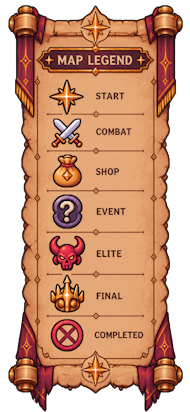
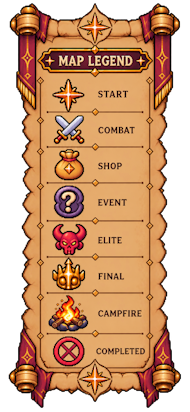
Fixed scaling of map UI breaking after resizing window and updated legend images to include new campfire node

diff --git a/source/core/src/main/com/csse3200/game/maps/MapDisplay.java b/source/core/src/main/com/csse3200/game/maps/MapDisplay.java
@@ -1,6 +1,5 @@
 package com.csse3200.game.maps;
 
-import com.badlogic.gdx.Gdx;
 import com.badlogic.gdx.graphics.Color;
 import com.badlogic.gdx.graphics.Texture;
 import com.badlogic.gdx.graphics.g2d.SpriteBatch;
@@ -38,9 +37,15 @@ public class MapDisplay extends UIComponent {
 
   private Group group;
   private ScrollPane scrollPane;
-  private final float mapHeight;
-  private final float mapWidth = Gdx.graphics.getWidth();
-  private final float nodeWidth = mapWidth / 13f; // default size
+  private static final float UI_WIDTH = 1280f;
+  private static final float UI_HEIGHT = 800f;
+
+  private float mapHeight;
+  private float mapWidth = UI_WIDTH;
+  private float nodeWidth;
+
+  private Table playerTable;
+  private Table legendTable;
   // to store positions
   private final Map<Integer, Vector2> nodePositions = new HashMap<>();
   // Node-id labels, shown only while debug rendering is active — same toggle 'debug on'
@@ -61,7 +66,14 @@ public class MapDisplay extends UIComponent {
     this.runState = runState;
     this.mapSelectionController = new MapSelectionController(mapGraph);
     this.mapInputHandler = new MapInputHandler(mapSelectionController);
-    this.mapHeight = (MapGenerationConfig.MAP_HEIGHT + 1) * 2f * nodeWidth;
+
+    updateDimensions();
+  }
+
+  /** Calculates the dimensions */
+  private void updateDimensions() {
+    nodeWidth = mapWidth / 13f;
+    mapHeight = (MapGenerationConfig.MAP_HEIGHT + 1) * 2f * nodeWidth;
   }
 
   /**
@@ -207,10 +219,10 @@ public class MapDisplay extends UIComponent {
    * <p>Piety is the height of the current node
    */
   private void addPlayerStats() {
-    Table playerTable = new Table();
+    playerTable = new Table();
 
-    playerTable.setSize(mapWidth, 100);
-    playerTable.setPosition(0, Gdx.graphics.getHeight() - 100);
+    playerTable.setSize(UI_WIDTH, 100);
+    playerTable.setPosition(0, UI_HEIGHT - 100);
     playerTable.setBackground(skin.newDrawable("color", new Color(0.105f, 0.070f, 0.065f, 0.98f)));
     playerTable.setDebug(false); // for testing
     playerTable.left();
@@ -300,25 +312,47 @@ public class MapDisplay extends UIComponent {
    * represents
    */
   private void addLegend() {
-    Table playerTable = new Table();
+    legendTable = new Table();
 
-    playerTable.setSize(192, (32 + 16) * 7);
+    legendTable.setSize(192, (32 + 16) * 7);
     Image legend =
         new Image(
             ServiceLocator.getResourceService().getAsset("images/map/legend.png", Texture.class));
-    playerTable.add(legend);
-    playerTable.setPosition(
-        Gdx.graphics.getWidth() - 224,
-        Gdx.graphics.getHeight() / 2f - playerTable.getHeight() / 2f);
+    legendTable.add(legend);
+    legendTable.setPosition(UI_WIDTH - 224, UI_HEIGHT / 2f - legendTable.getHeight() / 2f);
 
-    stage.addActor(playerTable);
+    stage.addActor(legendTable);
   }
 
-  /**
-   * Returns the group to access UI elements
-   *
-   * @return group of Nodes, connections and background
-   */
+  /** Resizes the player stats and legend with window size */
+  public void resizeHud() {
+    float width = stage.getWidth();
+    float height = stage.getHeight();
+    float extraWidth = width - UI_WIDTH;
+    if (playerTable != null) {
+      float sideExtension = extraWidth / 2f;
+
+      playerTable.setSize(width + extraWidth, 100f);
+      playerTable.setPosition(-sideExtension, height - 100f);
+
+      // Keep stats 15 units inside the original 1280 area
+      playerTable.padLeft(sideExtension + 15f);
+
+      playerTable.invalidateHierarchy();
+      playerTable.layout();
+    }
+
+    if (legendTable != null) {
+      float scale = height / UI_HEIGHT;
+
+      legendTable.setScale(scale);
+
+      legendTable.setPosition(
+          width - legendTable.getWidth() * scale - 32f,
+          height / 2f - legendTable.getHeight() * scale / 2f);
+    }
+  }
+
   /**
    * Gets the selection controller driving this display, so a screen can listen for node selection
    * and start the matching encounter.
@@ -329,6 +363,11 @@ public class MapDisplay extends UIComponent {
     return mapSelectionController;
   }
 
+  /**
+   * Returns the group to access UI elements
+   *
+   * @return group of Nodes, connections and background
+   */
   public Group getGroup() {
     return group;
   }

diff --git a/source/core/src/main/com/csse3200/game/screens/MapScreen.java b/source/core/src/main/com/csse3200/game/screens/MapScreen.java
@@ -46,6 +46,8 @@ public class MapScreen extends com.badlogic.gdx.ScreenAdapter {
 
   private final GdxGame game;
   private final Renderer renderer;
+  private ImageButton exitButton;
+  private MapDisplay mapDisplay;
 
   public MapScreen(GdxGame game) {
     this.game = game;
@@ -92,7 +94,7 @@ public class MapScreen extends com.badlogic.gdx.ScreenAdapter {
 
   /** Puts the map display on a UI entity so it is rendered and receives input. */
   private void createUi(GdxGame game, RunState runState) {
-    MapDisplay mapDisplay = new MapDisplay(runState.getMapGraph(), runState);
+    mapDisplay = new MapDisplay(runState.getMapGraph(), runState);
 
     mapDisplay
         .getMapSelectionController()
@@ -161,16 +163,10 @@ public class MapScreen extends com.badlogic.gdx.ScreenAdapter {
     style.imageUp = buttonDrawable;
     style.imageOver = buttonDrawableHover;
 
-    ImageButton exitButton = new ImageButton(style);
+    exitButton = new ImageButton(style);
 
-    float buttonWidth = 150f;
-    float buttonHeight = 50f;
-    float offset = 52f;
-
-    exitButton.setSize(buttonWidth, buttonHeight);
-
-    exitButton.setPosition(
-        stage.getWidth() - buttonWidth - offset, stage.getHeight() - offset * 1.5f);
+    exitButton.setSize(150f, 50f);
+    positionExitButton();
 
     exitButton.addListener(
         new ChangeListener() {
@@ -181,6 +177,16 @@ public class MapScreen extends com.badlogic.gdx.ScreenAdapter {
         });
 
     stage.addActor(exitButton);
+  }
+
+  private void positionExitButton() {
+    Stage stage = ServiceLocator.getRenderService().getStage();
+
+    float offset = 52f;
+
+    exitButton.setPosition(
+        stage.getWidth() - exitButton.getWidth() - offset,
+        stage.getHeight() - exitButton.getHeight() - offset / 2f);
   }
 
   @Override
@@ -198,6 +204,12 @@ public class MapScreen extends com.badlogic.gdx.ScreenAdapter {
   @Override
   public void resize(int width, int height) {
     renderer.resize(width, height);
+
+    if (mapDisplay != null) {
+      mapDisplay.resizeHud();
+    }
+
+    positionExitButton();
   }
 
   @Override

diff --git a/source/core/src/main/com/csse3200/game/maps/MapNodeActor.java b/source/core/src/main/com/csse3200/game/maps/MapNodeActor.java
@@ -1,6 +1,5 @@
 package com.csse3200.game.maps;
 
-import com.badlogic.gdx.Gdx;
 import com.badlogic.gdx.graphics.Texture;
 import com.badlogic.gdx.scenes.scene2d.Group;
 import com.badlogic.gdx.scenes.scene2d.ui.Image;
@@ -28,8 +27,8 @@ public class MapNodeActor extends Group {
    */
   public MapNodeActor(MapNode node) {
     this.node = node;
-    float mapWidth = Gdx.graphics.getWidth();
-    this.size = (mapWidth - 512) / 13f;
+    float mapWidth = ServiceLocator.getRenderService().getStage().getWidth();
+    this.size = (mapWidth - 512f) / 13f;
     nodeIcon =
         new Image(ServiceLocator.getResourceService().getAsset(getNodeIcon(), Texture.class));
 
@@ -70,8 +69,8 @@ public class MapNodeActor extends Group {
    */
   public MapNodeActor(MapNode node, boolean test) {
     this.node = node;
-    float mapWidth = Gdx.graphics.getWidth();
-    this.size = mapWidth / 13f;
+    float mapWidth = 1280f;
+    this.size = (mapWidth - 512f) / 13f;
     nodeIcon = new Image();
     nodeIcon.setSize(size, size);
   }
@@ -113,6 +112,14 @@ public class MapNodeActor extends Group {
    */
   public float getNodeSize() {
     return this.size;
+  }
+  /**
+   * Scale factor on the image
+   * 
+   * @return the scale factor applied on the image
+   */
+  public float getNodeScale() {
+    return nodeIcon.getScaleX();
   }
 
   /**

diff --git a/source/core/src/test/com/csse3200/game/maps/MapNodeActorTest.java b/source/core/src/test/com/csse3200/game/maps/MapNodeActorTest.java
@@ -2,8 +2,9 @@ package com.csse3200.game.maps;
 
 import static org.junit.jupiter.api.Assertions.assertEquals;
 
-import com.badlogic.gdx.Gdx;
 import com.csse3200.game.extensions.GameExtension;
+import com.csse3200.game.services.ServiceLocator;
+
 import org.junit.jupiter.api.BeforeEach;
 import org.junit.jupiter.api.Test;
 import org.junit.jupiter.api.extension.ExtendWith;
@@ -36,9 +37,10 @@ class MapNodeActorTest {
   @Test
   void setHoveredScalesNodeUp() {
     MapNodeActor actor = new MapNodeActor(node, true);
+
     actor.setHovered(true);
 
-    assertEquals(1.25f * actor.size, actor.getNodeSize());
+    assertEquals(1.25f, actor.getNodeScale());
   }
 
   @Test
@@ -48,7 +50,7 @@ class MapNodeActorTest {
     actor.setHovered(true);
     actor.setHovered(false);
 
-    assertEquals(actor.size, actor.getNodeSize());
+    assertEquals(1f, actor.getNodeScale());
   }
 
   @Test
@@ -56,6 +58,9 @@ class MapNodeActorTest {
     MapNode node = new MapNode(0, RoomType.COMBAT);
     MapNodeActor actor = new MapNodeActor(node, true);
 
-    assertEquals(Gdx.graphics.getWidth() / 13f, actor.getNodeSize());
+    float mapWidth = 1280f;
+    float size = (mapWidth - 512f) / 13f;
+
+    assertEquals(size, actor.getNodeSize());
   }
 }

diff --git a/source/core/src/main/com/csse3200/game/rendering/Renderer.java b/source/core/src/main/com/csse3200/game/rendering/Renderer.java
@@ -7,7 +7,7 @@ import com.badlogic.gdx.graphics.g2d.SpriteBatch;
 import com.badlogic.gdx.math.Matrix4;
 import com.badlogic.gdx.scenes.scene2d.Stage;
 import com.badlogic.gdx.utils.Disposable;
-import com.badlogic.gdx.utils.viewport.FitViewport;
+import com.badlogic.gdx.utils.viewport.ExtendViewport;
 import com.csse3200.game.components.CameraComponent;
 import com.csse3200.game.services.ServiceLocator;
 import org.slf4j.Logger;
@@ -44,7 +44,7 @@ public class Renderer implements Disposable {
         camera,
         GAME_SCREEN_WIDTH,
         spriteBatch,
-        new Stage(new FitViewport(UI_WIDTH, UI_HEIGHT), spriteBatch),
+        new Stage(new ExtendViewport(UI_WIDTH, UI_HEIGHT), spriteBatch),
         ServiceLocator.getRenderService(),
         debugRenderer);
   }
